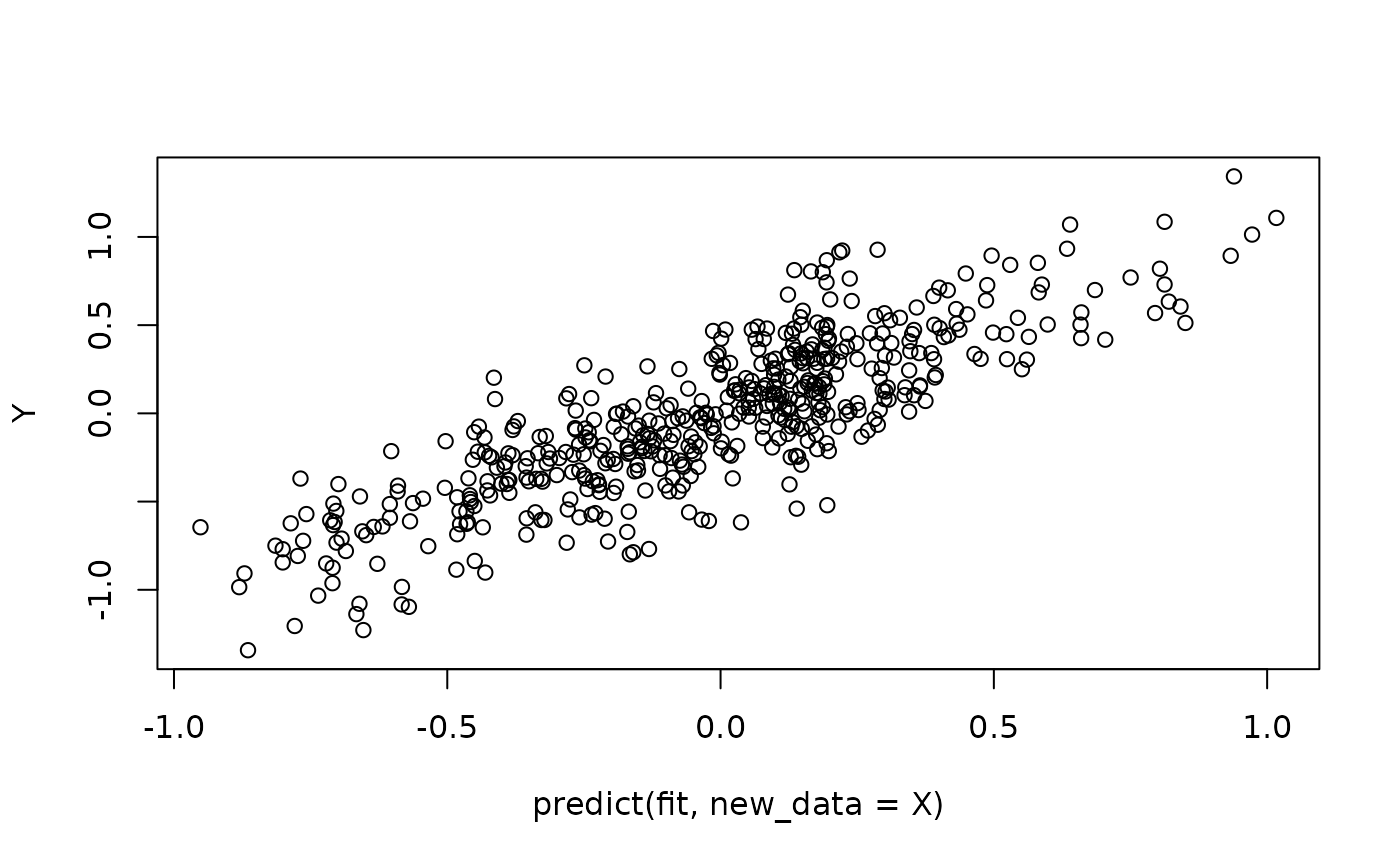
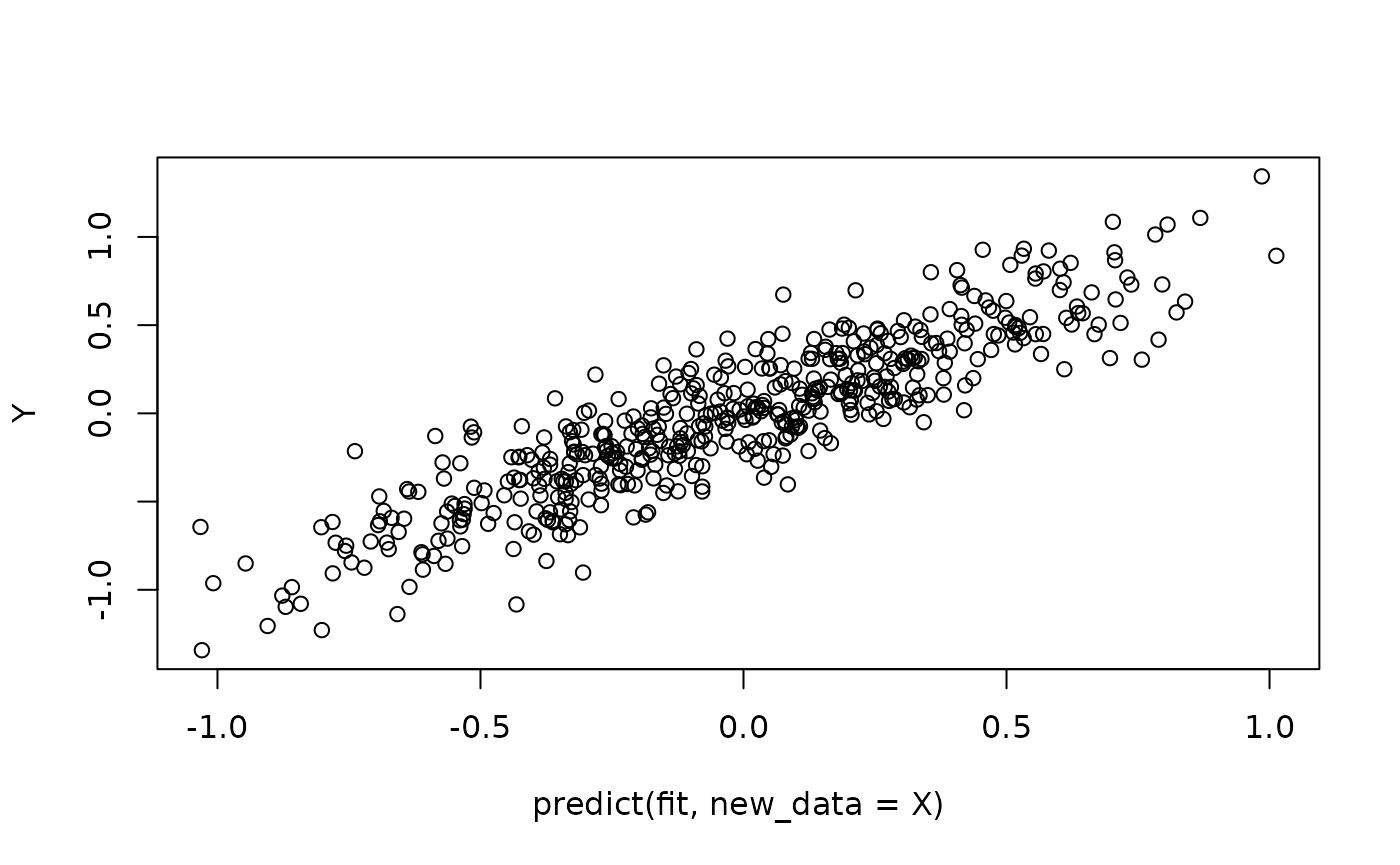
site update

diff --git a/docs/articles/intro_hal9001.html b/docs/articles/intro_hal9001.html
@@ -83,7 +83,7 @@
                         <h4 data-toc-skip class="author">
 <a href="https://nimahejazi.org" class="external-link">Nima Hejazi</a>, <a href="https://github.com/jeremyrcoyle" class="external-link">Jeremy Coyle</a>, Rachael Phillips, Lars van der Laan</h4>
             
-            <h4 data-toc-skip class="date">2022-01-06</h4>
+            <h4 data-toc-skip class="date">2022-02-09</h4>
       
       <small class="dont-index">Source: <a href="https://github.com/tlverse/hal9001/blob/HEAD/vignettes/intro_hal9001.Rmd" class="external-link"><code>vignettes/intro_hal9001.Rmd</code></a></small>
       <div class="hidden name"><code>intro_hal9001.Rmd</code></div>
@@ -146,12 +146,12 @@
 <code class="sourceCode R"><span class="va">hal_fit</span> <span class="op">&lt;-</span> <span class="fu"><a href="../reference/fit_hal.html">fit_hal</a></span><span class="op">(</span>X <span class="op">=</span> <span class="va">x</span>, Y <span class="op">=</span> <span class="va">y</span><span class="op">)</span>
 <span class="va">hal_fit</span><span class="op">$</span><span class="va">times</span></code></pre></div>
 <pre><code><span class="co">##                   user.self sys.self elapsed user.child sys.child</span>
-<span class="co">## enumerate_basis       0.023    0.000   0.023          0         0</span>
-<span class="co">## design_matrix         0.134    0.000   0.135          0         0</span>
-<span class="co">## reduce_basis          0.001    0.000   0.000          0         0</span>
+<span class="co">## enumerate_basis       0.017    0.000   0.017          0         0</span>
+<span class="co">## design_matrix         0.090    0.000   0.091          0         0</span>
+<span class="co">## reduce_basis          0.000    0.000   0.000          0         0</span>
 <span class="co">## remove_duplicates     0.000    0.000   0.000          0         0</span>
-<span class="co">## lasso                 4.967    0.028   4.996          0         0</span>
-<span class="co">## total                 5.125    0.028   5.154          0         0</span></code></pre>
+<span class="co">## lasso                 3.832    0.008   3.840          0         0</span>
+<span class="co">## total                 3.940    0.008   3.948          0         0</span></code></pre>
 </div>
 <div class="section level3">
 <h3 id="summarizing-the-model">Summarizing the model<a class="anchor" aria-label="anchor" href="#summarizing-the-model"></a>
@@ -267,12 +267,12 @@
 <code class="sourceCode R"><span class="va">hal_fit_reduced</span> <span class="op">&lt;-</span> <span class="fu"><a href="../reference/fit_hal.html">fit_hal</a></span><span class="op">(</span>X <span class="op">=</span> <span class="va">x</span>, Y <span class="op">=</span> <span class="va">y</span>, reduce_basis <span class="op">=</span> <span class="fl">0.1</span><span class="op">)</span>
 <span class="va">hal_fit_reduced</span><span class="op">$</span><span class="va">times</span></code></pre></div>
 <pre><code><span class="co">##                   user.self sys.self elapsed user.child sys.child</span>
-<span class="co">## enumerate_basis       0.020    0.000   0.021          0         0</span>
-<span class="co">## design_matrix         0.120    0.004   0.124          0         0</span>
+<span class="co">## enumerate_basis       0.013    0.000   0.014          0         0</span>
+<span class="co">## design_matrix         0.084    0.000   0.084          0         0</span>
 <span class="co">## reduce_basis          0.000    0.000   0.000          0         0</span>
 <span class="co">## remove_duplicates     0.000    0.000   0.000          0         0</span>
-<span class="co">## lasso                 5.868    0.032   5.956          0         0</span>
-<span class="co">## total                 6.009    0.036   6.101          0         0</span></code></pre>
+<span class="co">## lasso                 3.763    0.008   3.771          0         0</span>
+<span class="co">## total                 3.860    0.008   3.869          0         0</span></code></pre>
 <p>In the above, all basis functions with fewer than 10% of observations meeting the criterion imposed are automatically removed prior to the Lasso step of fitting the HAL regression. The results appear below</p>
 <div class="sourceCode" id="cb19"><pre class="downlit sourceCode r">
 <code class="sourceCode R"><span class="fu"><a href="https://rdrr.io/r/base/summary.html" class="external-link">summary</a></span><span class="op">(</span><span class="va">hal_fit_reduced</span><span class="op">)</span><span class="op">$</span><span class="va">table</span></code></pre></div>
@@ -533,21 +533,21 @@
 <span class="va">formula2</span> <span class="op">&lt;-</span> <span class="fu"><a href="../reference/h.html">h</a></span><span class="op">(</span><span class="va">x1</span><span class="op">)</span> <span class="op">+</span> <span class="fu"><a href="../reference/h.html">h</a></span><span class="op">(</span><span class="va">x2</span><span class="op">)</span> <span class="op">+</span> <span class="fu"><a href="../reference/h.html">h</a></span><span class="op">(</span><span class="va">A</span><span class="op">)</span>
 <span class="co"># Same number of basis functions</span>
 <span class="fu"><a href="https://rdrr.io/r/base/length.html" class="external-link">length</a></span><span class="op">(</span><span class="va">formula1</span><span class="op">$</span><span class="va">basis_list</span> <span class="op">)</span> <span class="op">==</span> <span class="fu"><a href="https://rdrr.io/r/base/length.html" class="external-link">length</a></span><span class="op">(</span><span class="va">formula2</span><span class="op">$</span><span class="va">basis_list</span><span class="op">)</span></code></pre></div>
-<pre><code><span class="co">## [1] FALSE</span></code></pre>
+<pre><code><span class="co">## [1] TRUE</span></code></pre>
 <div class="sourceCode" id="cb52"><pre class="downlit sourceCode r">
 <code class="sourceCode R"><span class="co"># Maybe we only want an additive model for x1 and x2</span>
 <span class="co"># Use the `.` argument</span>
 <span class="va">formula1</span> <span class="op">&lt;-</span> <span class="fu"><a href="../reference/h.html">h</a></span><span class="op">(</span><span class="va">.</span>, . <span class="op">=</span> <span class="fu"><a href="https://rdrr.io/r/base/c.html" class="external-link">c</a></span><span class="op">(</span><span class="st">"x1"</span>, <span class="st">"x2"</span><span class="op">)</span><span class="op">)</span>
 <span class="va">formula2</span> <span class="op">&lt;-</span> <span class="fu"><a href="../reference/h.html">h</a></span><span class="op">(</span><span class="va">x1</span><span class="op">)</span> <span class="op">+</span> <span class="fu"><a href="../reference/h.html">h</a></span><span class="op">(</span><span class="va">x2</span><span class="op">)</span> 
 <span class="fu"><a href="https://rdrr.io/r/base/length.html" class="external-link">length</a></span><span class="op">(</span><span class="va">formula1</span><span class="op">$</span><span class="va">basis_list</span> <span class="op">)</span> <span class="op">==</span> <span class="fu"><a href="https://rdrr.io/r/base/length.html" class="external-link">length</a></span><span class="op">(</span><span class="va">formula2</span><span class="op">$</span><span class="va">basis_list</span><span class="op">)</span></code></pre></div>
-<pre><code><span class="co">## [1] FALSE</span></code></pre>
+<pre><code><span class="co">## [1] TRUE</span></code></pre>
 <p>We can specify interactions as follows.</p>
 <div class="sourceCode" id="cb54"><pre class="downlit sourceCode r">
 <code class="sourceCode R"><span class="co">#  Two way interactions</span>
 <span class="va">formula1</span> <span class="op">&lt;-</span>  <span class="fu"><a href="../reference/h.html">h</a></span><span class="op">(</span><span class="va">x1</span><span class="op">)</span> <span class="op">+</span> <span class="fu"><a href="../reference/h.html">h</a></span><span class="op">(</span><span class="va">x2</span><span class="op">)</span>  <span class="op">+</span> <span class="fu"><a href="../reference/h.html">h</a></span><span class="op">(</span><span class="va">A</span><span class="op">)</span> <span class="op">+</span> <span class="fu"><a href="../reference/h.html">h</a></span><span class="op">(</span><span class="va">x1</span>, <span class="va">x2</span><span class="op">)</span>
 <span class="va">formula2</span> <span class="op">&lt;-</span>  <span class="fu"><a href="../reference/h.html">h</a></span><span class="op">(</span><span class="va">.</span><span class="op">)</span>  <span class="op">+</span> <span class="fu"><a href="../reference/h.html">h</a></span><span class="op">(</span><span class="va">x1</span>, <span class="va">x2</span><span class="op">)</span>
 <span class="fu"><a href="https://rdrr.io/r/base/length.html" class="external-link">length</a></span><span class="op">(</span><span class="va">formula1</span><span class="op">$</span><span class="va">basis_list</span> <span class="op">)</span> <span class="op">==</span> <span class="fu"><a href="https://rdrr.io/r/base/length.html" class="external-link">length</a></span><span class="op">(</span><span class="va">formula2</span><span class="op">$</span><span class="va">basis_list</span><span class="op">)</span></code></pre></div>
-<pre><code><span class="co">## [1] FALSE</span></code></pre>
+<pre><code><span class="co">## [1] TRUE</span></code></pre>
 <div class="sourceCode" id="cb56"><pre class="downlit sourceCode r">
 <code class="sourceCode R"><span class="co">#</span>
 <span class="va">formula1</span> <span class="op">&lt;-</span>  <span class="fu"><a href="../reference/h.html">h</a></span><span class="op">(</span><span class="va">.</span><span class="op">)</span> <span class="op">+</span> <span class="fu"><a href="../reference/h.html">h</a></span><span class="op">(</span><span class="va">x1</span>, <span class="va">x2</span><span class="op">)</span>    <span class="op">+</span> <span class="fu"><a href="../reference/h.html">h</a></span><span class="op">(</span><span class="va">x1</span>,<span class="va">A</span><span class="op">)</span> <span class="op">+</span> <span class="fu"><a href="../reference/h.html">h</a></span><span class="op">(</span><span class="va">x2</span>,<span class="va">A</span><span class="op">)</span>
@@ -580,7 +580,7 @@
 <span class="va">formula1</span> <span class="op">&lt;-</span>   <span class="fu"><a href="../reference/h.html">h</a></span><span class="op">(</span><span class="va">A</span>,<span class="va">x1</span><span class="op">)</span> 
 <span class="va">formula2</span> <span class="op">&lt;-</span>   <span class="fu"><a href="../reference/h.html">h</a></span><span class="op">(</span><span class="va">A</span>,<span class="va">.</span>, . <span class="op">=</span> <span class="fu"><a href="https://rdrr.io/r/base/c.html" class="external-link">c</a></span><span class="op">(</span><span class="st">"x1"</span><span class="op">)</span><span class="op">)</span> 
  <span class="fu"><a href="https://rdrr.io/r/base/length.html" class="external-link">length</a></span><span class="op">(</span><span class="va">formula1</span><span class="op">$</span><span class="va">basis_list</span><span class="op">)</span> <span class="op">==</span> <span class="fu"><a href="https://rdrr.io/r/base/length.html" class="external-link">length</a></span><span class="op">(</span><span class="va">formula2</span><span class="op">$</span><span class="va">basis_list</span><span class="op">)</span></code></pre></div>
-<pre><code><span class="co">## [1] TRUE</span></code></pre>
+<pre><code><span class="co">## [1] FALSE</span></code></pre>
 <p>A key feature of the HAL formula is <strong>monotonicity constraints</strong>. Specifying these constraints is achieved by specifying the <code>monotone</code> argument of <code>h</code>. Note if smoothness_orders = 0 then this is a monotonicity constrain on the function, but if if smoothness_orders = 1 then this is a monotonicity constraint on the function’s derivative (e.g. a convexity constraint). We can also specify that certain terms are not penalized in the LASSO/glmnet using the <code>pf</code> argument of <code>h</code> (stands for penalty factor).</p>
 <div class="sourceCode" id="cb62"><pre class="downlit sourceCode r">
 <code class="sourceCode R"><span class="co"># An additive monotone increasing model</span>
@@ -622,30 +622,19 @@
 <span class="op">)</span>
 <span class="fu"><a href="https://rdrr.io/r/base/print.html" class="external-link">print</a></span><span class="op">(</span><span class="fu"><a href="https://rdrr.io/r/base/summary.html" class="external-link">summary</a></span><span class="op">(</span><span class="va">fit</span><span class="op">)</span>, <span class="fl">10</span><span class="op">)</span> <span class="co"># prints top 10 rows, i.e., highest absolute coefs</span></code></pre></div>
 <pre><code><span class="co">## </span>
-<span class="co">## Summary of top 10 non-zero coefficients is based on lambda of 0.001258067 </span>
+<span class="co">## Summary of top 10 non-zero coefficients is based on lambda of 0.0005900481 </span>
 <span class="co">## </span>
-<span class="co">##         coef</span>
-<span class="co">##   0.19525087</span>
-<span class="co">##  -0.13418988</span>
-<span class="co">##  -0.13215203</span>
-<span class="co">##   0.10637030</span>
-<span class="co">##   0.08730008</span>
-<span class="co">##   0.08062451</span>
-<span class="co">##   0.07858468</span>
-<span class="co">##  -0.07137055</span>
-<span class="co">##   0.06794465</span>
-<span class="co">##   0.06641049</span>
-<span class="co">##                                                                                                           term</span>
-<span class="co">##                                                                                                    (Intercept)</span>
-<span class="co">##  [ I(x1 &gt;= -2.344)*(x1 - -2.344)^1 ] * [ I(x2 &gt;= -2.584)*(x2 - -2.584)^1 ] * [ I(A &gt;= -2.221)*(A - -2.221)^1 ]</span>
-<span class="co">##  [ I(x1 &gt;= -3.972)*(x1 - -3.972)^1 ] * [ I(x2 &gt;= -3.992)*(x2 - -3.992)^1 ] * [ I(A &gt;= -3.978)*(A - -3.978)^1 ]</span>
-<span class="co">##  [ I(x1 &gt;= -3.972)*(x1 - -3.972)^1 ] * [ I(x2 &gt;= -1.097)*(x2 - -1.097)^1 ] * [ I(A &gt;= -3.978)*(A - -3.978)^1 ]</span>
-<span class="co">##  [ I(x1 &gt;= -2.344)*(x1 - -2.344)^1 ] * [ I(x2 &gt;= -3.992)*(x2 - -3.992)^1 ] * [ I(A &gt;= -3.978)*(A - -3.978)^1 ]</span>
-<span class="co">##  [ I(x1 &gt;= -3.972)*(x1 - -3.972)^1 ] * [ I(x2 &gt;= -3.992)*(x2 - -3.992)^1 ] * [ I(A &gt;= -2.221)*(A - -2.221)^1 ]</span>
-<span class="co">##    [ I(x1 &gt;= -2.344)*(x1 - -2.344)^1 ] * [ I(x2 &gt;= 0.378)*(x2 - 0.378)^1 ] * [ I(A &gt;= -2.221)*(A - -2.221)^1 ]</span>
-<span class="co">##      [ I(x1 &gt;= 2.501)*(x1 - 2.501)^1 ] * [ I(x2 &gt;= 2.106)*(x2 - 2.106)^1 ] * [ I(A &gt;= -2.221)*(A - -2.221)^1 ]</span>
-<span class="co">##  [ I(x1 &gt;= -0.577)*(x1 - -0.577)^1 ] * [ I(x2 &gt;= -3.992)*(x2 - -3.992)^1 ] * [ I(A &gt;= -3.978)*(A - -3.978)^1 ]</span>
-<span class="co">##  [ I(x1 &gt;= -3.972)*(x1 - -3.972)^1 ] * [ I(x2 &gt;= -3.992)*(x2 - -3.992)^1 ] * [ I(A &gt;= -0.901)*(A - -0.901)^1 ]</span></code></pre>
+<span class="co">##        coef                                term</span>
+<span class="co">##   0.7395438                         (Intercept)</span>
+<span class="co">##  -0.3026891   [ I(A &gt;= -3.978)*(A - -3.978)^1 ]</span>
+<span class="co">##  -0.2948108 [ I(x2 &gt;= -3.992)*(x2 - -3.992)^1 ]</span>
+<span class="co">##  -0.2763138   [ I(x1 &gt;= 1.172)*(x1 - 1.172)^1 ]</span>
+<span class="co">##  -0.2493828   [ I(x2 &gt;= 1.638)*(x2 - 1.638)^1 ]</span>
+<span class="co">##  -0.2475319 [ I(x1 &gt;= -3.972)*(x1 - -3.972)^1 ]</span>
+<span class="co">##   0.2098793   [ I(x1 &gt;= -1.45)*(x1 - -1.45)^1 ]</span>
+<span class="co">##   0.2079505   [ I(A &gt;= -1.356)*(A - -1.356)^1 ]</span>
+<span class="co">##  -0.2075157     [ I(A &gt;= 1.384)*(A - 1.384)^1 ]</span>
+<span class="co">##   0.2035278 [ I(x2 &gt;= -1.293)*(x2 - -1.293)^1 ]</span></code></pre>
 <div class="sourceCode" id="cb66"><pre class="downlit sourceCode r">
 <code class="sourceCode R"><span class="fu"><a href="https://rdrr.io/r/graphics/plot.default.html" class="external-link">plot</a></span><span class="op">(</span><span class="fu"><a href="https://rdrr.io/r/stats/predict.html" class="external-link">predict</a></span><span class="op">(</span><span class="va">fit</span>, new_data <span class="op">=</span> <span class="va">X</span><span class="op">)</span>, <span class="va">Y</span><span class="op">)</span></code></pre></div>
 <p><img src="intro_hal9001_files/figure-html/unnamed-chunk-13-1.png" width="700"></p>
@@ -691,7 +680,7 @@
 
 <div class="pkgdown">
   <p></p>
-<p>Site built with <a href="https://pkgdown.r-lib.org/" class="external-link">pkgdown</a> 2.0.1.</p>
+<p>Site built with <a href="https://pkgdown.r-lib.org/" class="external-link">pkgdown</a> 2.0.2.</p>
 </div>
 
       </footer>

diff --git a/docs/index.html b/docs/index.html
@@ -128,7 +128,7 @@
 <code class="sourceCode R"><span class="co"># load the package and set a seed</span>
 <span class="kw"><a href="https://rdrr.io/r/base/library.html" class="external-link">library</a></span><span class="op">(</span><span class="va"><a href="https://github.com/tlverse/hal9001" class="external-link">hal9001</a></span><span class="op">)</span>
 <span class="co">#&gt; Loading required package: Rcpp</span>
-<span class="co">#&gt; hal9001 v0.4.2: The Scalable Highly Adaptive Lasso</span>
+<span class="co">#&gt; hal9001 v0.4.3: The Scalable Highly Adaptive Lasso</span>
 <span class="co">#&gt; note: fit_hal defaults have changed. See ?fit_hal for details</span>
 <span class="fu"><a href="https://rdrr.io/r/base/Random.html" class="external-link">set.seed</a></span><span class="op">(</span><span class="fl">385971</span><span class="op">)</span>
 
@@ -143,12 +143,12 @@
 <span class="co">#&gt; [1] "I'm sorry, Dave. I'm afraid I can't do that."</span>
 <span class="va">hal_fit</span><span class="op">$</span><span class="va">times</span>
 <span class="co">#&gt;                   user.self sys.self elapsed user.child sys.child</span>
-<span class="co">#&gt; enumerate_basis       0.011    0.000   0.011          0         0</span>
-<span class="co">#&gt; design_matrix         0.004    0.000   0.004          0         0</span>
-<span class="co">#&gt; reduce_basis          0.001    0.000   0.000          0         0</span>
-<span class="co">#&gt; remove_duplicates     0.000    0.000   0.000          0         0</span>
-<span class="co">#&gt; lasso                 3.648    0.012   3.660          0         0</span>
-<span class="co">#&gt; total                 3.664    0.012   3.676          0         0</span>
+<span class="co">#&gt; enumerate_basis       0.008     0.00   0.008          0         0</span>
+<span class="co">#&gt; design_matrix         0.003     0.00   0.003          0         0</span>
+<span class="co">#&gt; reduce_basis          0.000     0.00   0.000          0         0</span>
+<span class="co">#&gt; remove_duplicates     0.000     0.00   0.000          0         0</span>
+<span class="co">#&gt; lasso                 3.012     0.01   3.023          0         0</span>
+<span class="co">#&gt; total                 3.024     0.01   3.035          0         0</span>
 
 <span class="co"># training sample prediction</span>
 <span class="va">preds</span> <span class="op">&lt;-</span> <span class="fu"><a href="https://rdrr.io/r/stats/predict.html" class="external-link">predict</a></span><span class="op">(</span><span class="va">hal_fit</span>, new_data <span class="op">=</span> <span class="va">x</span><span class="op">)</span>
@@ -295,7 +295,7 @@
 
 <div class="pkgdown">
   <p></p>
-<p>Site built with <a href="https://pkgdown.r-lib.org/" class="external-link">pkgdown</a> 2.0.1.</p>
+<p>Site built with <a href="https://pkgdown.r-lib.org/" class="external-link">pkgdown</a> 2.0.2.</p>
 </div>
 
       </footer>

diff --git a/docs/authors.html b/docs/authors.html
@@ -101,7 +101,7 @@
     </div>
 
 
-    <p>Coyle JR, Hejazi NS, Phillips RV, van der Laan LW, van der Laan MJ (2022).
+    <p>Coyle J, Hejazi N, Phillips R, van der Laan L, van der Laan M (2022).
 <em>hal9001: The scalable highly adaptive lasso</em>.
 doi: <a href="https://doi.org/10.5281/zenodo.3558313" class="external-link">10.5281/zenodo.3558313</a>, R package version 0.4.3, <a href="https://github.com/tlverse/hal9001" class="external-link">https://github.com/tlverse/hal9001</a>. 
 </p>
@@ -113,7 +113,7 @@ doi: <a href="https://doi.org/10.5281/zenodo.3558313" class="external-link">10.5
   doi = {10.5281/zenodo.3558313},
   url = {https://github.com/tlverse/hal9001},
 }</pre>
-    <p>Hejazi NS, Coyle JR, van der Laan MJ (2020).
+    <p>Hejazi N, Coyle J, van der Laan M (2020).
 “hal9001: Scalable highly adaptive lasso regression in R.”
 <em>Journal of Open Source Software</em>.
 doi: <a href="https://doi.org/10.21105/joss.02526" class="external-link">10.21105/joss.02526</a>, <a href="https://doi.org/10.21105/joss.02526" class="external-link">https://doi.org/10.21105/joss.02526</a>. 
@@ -139,7 +139,7 @@ doi: <a href="https://doi.org/10.21105/joss.02526" class="external-link">10.2110
 </div>
 
 <div class="pkgdown">
-  <p></p><p>Site built with <a href="https://pkgdown.r-lib.org/" class="external-link">pkgdown</a> 2.0.1.</p>
+  <p></p><p>Site built with <a href="https://pkgdown.r-lib.org/" class="external-link">pkgdown</a> 2.0.2.</p>
 </div>
 
       </footer></div>

diff --git a/docs/news/index.html b/docs/news/index.html
@@ -60,7 +60,7 @@
     </div>
 
     <div class="section level2">
-<h2 class="page-header" data-toc-text="0.4.2" id="hal9001-042">hal9001 0.4.2<a class="anchor" aria-label="anchor" href="#hal9001-042"></a></h2>
+<h2 class="page-header" data-toc-text="0.4.2" id="hal9001-042">hal9001 0.4.2<small>2022-01-26</small><a class="anchor" aria-label="anchor" href="#hal9001-042"></a></h2>
 <ul><li>Version bump for CRAN resubmission following archiving.</li>
 </ul></div>
     <div class="section level2">
@@ -107,7 +107,7 @@
 </div>
 
 <div class="pkgdown">
-  <p></p><p>Site built with <a href="https://pkgdown.r-lib.org/" class="external-link">pkgdown</a> 2.0.1.</p>
+  <p></p><p>Site built with <a href="https://pkgdown.r-lib.org/" class="external-link">pkgdown</a> 2.0.2.</p>
 </div>
 
       </footer></div>

diff --git a/docs/reference/cv_lasso.html b/docs/reference/cv_lasso.html
@@ -102,7 +102,7 @@ slower, but matches the <code>glmnet</code> implementation. Default <code>FALSE<
 </div>
 
 <div class="pkgdown">
-  <p></p><p>Site built with <a href="https://pkgdown.r-lib.org/" class="external-link">pkgdown</a> 2.0.1.</p>
+  <p></p><p>Site built with <a href="https://pkgdown.r-lib.org/" class="external-link">pkgdown</a> 2.0.2.</p>
 </div>
 
       </footer></div>

diff --git a/docs/reference/fit_hal.html b/docs/reference/fit_hal.html
@@ -283,7 +283,7 @@ in a faster runtime:</p><ul><li><p>Some good settings for little to no cost in p
 </div>
 
 <div class="pkgdown">
-  <p></p><p>Site built with <a href="https://pkgdown.r-lib.org/" class="external-link">pkgdown</a> 2.0.1.</p>
+  <p></p><p>Site built with <a href="https://pkgdown.r-lib.org/" class="external-link">pkgdown</a> 2.0.2.</p>
 </div>
 
       </footer></div>

diff --git a/docs/reference/h.html b/docs/reference/h.html
@@ -149,7 +149,7 @@ can be found. Otherwise, <code>X</code> is taken from the parent environment.</p
 </div>
 
 <div class="pkgdown">
-  <p></p><p>Site built with <a href="https://pkgdown.r-lib.org/" class="external-link">pkgdown</a> 2.0.1.</p>
+  <p></p><p>Site built with <a href="https://pkgdown.r-lib.org/" class="external-link">pkgdown</a> 2.0.2.</p>
 </div>
 
       </footer></div>

diff --git a/docs/reference/lassi_origami.html b/docs/reference/lassi_origami.html
@@ -103,7 +103,7 @@ slower, but matches the <code>glmnet</code> implementation. Default <code>FALSE<
 </div>
 
 <div class="pkgdown">
-  <p></p><p>Site built with <a href="https://pkgdown.r-lib.org/" class="external-link">pkgdown</a> 2.0.1.</p>
+  <p></p><p>Site built with <a href="https://pkgdown.r-lib.org/" class="external-link">pkgdown</a> 2.0.2.</p>
 </div>
 
       </footer></div>

diff --git a/docs/reference/as_dgCMatrix.html b/docs/reference/as_dgCMatrix.html
@@ -95,7 +95,7 @@ suitable for coercion to a sparse matrix format of <code>dgCMatrix</code>.</p></
 </div>
 
 <div class="pkgdown">
-  <p></p><p>Site built with <a href="https://pkgdown.r-lib.org/" class="external-link">pkgdown</a> 2.0.1.</p>
+  <p></p><p>Site built with <a href="https://pkgdown.r-lib.org/" class="external-link">pkgdown</a> 2.0.2.</p>
 </div>
 
       </footer></div>

diff --git a/docs/reference/make_design_matrix.html b/docs/reference/make_design_matrix.html
@@ -122,7 +122,7 @@ corresponding to the design matrix in a zero-order highly adaptive lasso.</p>
 </div>
 
 <div class="pkgdown">
-  <p></p><p>Site built with <a href="https://pkgdown.r-lib.org/" class="external-link">pkgdown</a> 2.0.1.</p>
+  <p></p><p>Site built with <a href="https://pkgdown.r-lib.org/" class="external-link">pkgdown</a> 2.0.2.</p>
 </div>
 
       </footer></div>

diff --git a/docs/reference/cv_lasso_early_stopping.html b/docs/reference/cv_lasso_early_stopping.html
@@ -99,7 +99,7 @@ the cross-validation procedure to select an optimal value of lambda.</p></dd>
 </div>
 
 <div class="pkgdown">
-  <p></p><p>Site built with <a href="https://pkgdown.r-lib.org/" class="external-link">pkgdown</a> 2.0.1.</p>
+  <p></p><p>Site built with <a href="https://pkgdown.r-lib.org/" class="external-link">pkgdown</a> 2.0.2.</p>
 </div>
 
       </footer></div>

diff --git a/docs/reference/apply_copy_map.html b/docs/reference/apply_copy_map.html
@@ -120,7 +120,7 @@ for a zero-th order highly adaptive lasso, but with all duplicated columns
 </div>
 
 <div class="pkgdown">
-  <p></p><p>Site built with <a href="https://pkgdown.r-lib.org/" class="external-link">pkgdown</a> 2.0.1.</p>
+  <p></p><p>Site built with <a href="https://pkgdown.r-lib.org/" class="external-link">pkgdown</a> 2.0.2.</p>
 </div>
 
       </footer></div>
